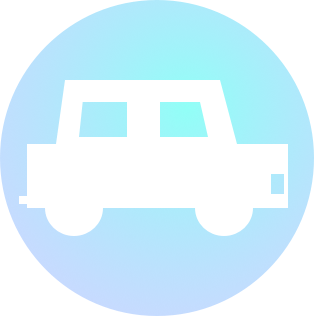
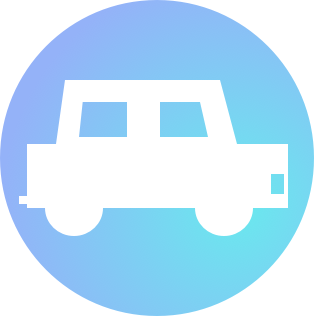
updated colors

diff --git a/index.html b/index.html
@@ -4,6 +4,7 @@
 <head>
   <title>Carpool</title>
   <meta charset="utf-8">
+  <meta name="format-detection" content="telephone=no">
   <meta name="viewport" content="width=device-width, initial-scale=1">
   <link rel="stylesheet" href="https://stackpath.bootstrapcdn.com/bootstrap/4.1.1/css/bootstrap.min.css" integrity="sha384-WskhaSGFgHYWDcbwN70/dfYBj47jz9qbsMId/iRN3ewGhXQFZCSftd1LZCfmhktB" crossorigin="anonymous">
   <script src="https://stackpath.bootstrapcdn.com/bootstrap/4.1.1/js/bootstrap.min.js" integrity="sha384-smHYKdLADwkXOn1EmN1qk/HfnUcbVRZyYmZ4qpPea6sjB/pTJ0euyQp0Mk8ck+5T" crossorigin="anonymous"></script>
@@ -20,8 +21,8 @@
     </div>
     <div class="container-fluid" id="car-gif"></div>
     <div class="container-fluid padded-big">
-      <h3 class="regular centered">Every week, I will have a short, hopefully fun puzzle for you guys to solve.</h3>
-      <h2 class="light centered">Make sure to comment on the Facebook post first for rides to Friday and Sunday, and then you can try attempting the puzzle!</h2>
+      <h3 class="regular centered">Every week, I will have a short and (hopefully) fun puzzle for you guys to solve.</h3>
+      <h2 class="light centered">Make sure to comment on the Facebook post first for rides, and then you can try attempting the puzzle!</h2>
     </div>
     <div class="row centered padded-small">
       <div>
@@ -41,6 +42,6 @@
 
 <script>
 $("#new-puzzle").click(function() {
-  window.location.href = "Puzzles/summer-week-1.html"
+  window.location.href = "Puzzles/1.html";
 });
 </script>

diff --git a/Puzzles/1.html b/Puzzles/1.html
@@ -2,8 +2,9 @@
 
 <html lang="en">
 <head>
-  <title>Carpool - Summer Week 1</title>
+  <title>Carpool - Puzzle #1</title>
   <meta charset="utf-8">
+  <meta name="format-detection" content="telephone=no">
   <meta name="viewport" content="width=device-width, initial-scale=1">
   <link rel="stylesheet" href="https://stackpath.bootstrapcdn.com/bootstrap/4.1.1/css/bootstrap.min.css" integrity="sha384-WskhaSGFgHYWDcbwN70/dfYBj47jz9qbsMId/iRN3ewGhXQFZCSftd1LZCfmhktB" crossorigin="anonymous">
   <script src="https://stackpath.bootstrapcdn.com/bootstrap/4.1.1/js/bootstrap.min.js" integrity="sha384-smHYKdLADwkXOn1EmN1qk/HfnUcbVRZyYmZ4qpPea6sjB/pTJ0euyQp0Mk8ck+5T" crossorigin="anonymous"></script>
@@ -27,8 +28,11 @@
       <form name="guess-form" method="post" autocomplete="off">
         <h2 class="bold centered">Enter your guess below:</h4><br>
         <input type="text" name="guess" class="form-box centered"><br>
-        <input type="submit" class="my-button centered" style="margin-bottom: 5%;" value="Did you get it?">
+        <input type="submit" class="my-button centered" value="Did you get it?">
       </form>
+    </div>
+    <div class="container-fluid" id="reminder">
+      <h1 class="bold centered"><em>Don't forget to comment for rides!</em></h1>
     </div>
   </div>
 </body>

diff --git a/style.css b/style.css
@@ -200,10 +200,6 @@ h4 {
 }
 
 .form-box:focus {
-  transform: translateY(1px);
-  border: none;
-  border-top: 1px solid white;
-  border-bottom: 2px solid #5F84D8;
   outline: none;
   box-shadow: 1px 0px 5px gray;
 }
@@ -254,4 +250,9 @@ h4 {
   height: 15em;
   background: white url("Media/car.gif") no-repeat center;
   background-size: auto;
+}
+
+#reminder {
+  margin-top: -2%;
+  padding-bottom: 5%;
 }
